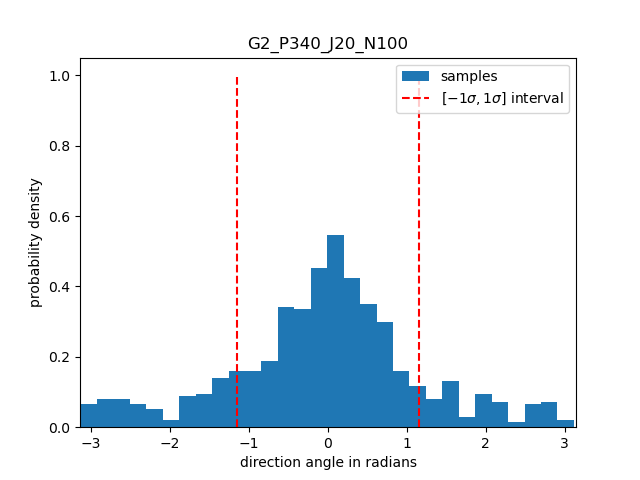
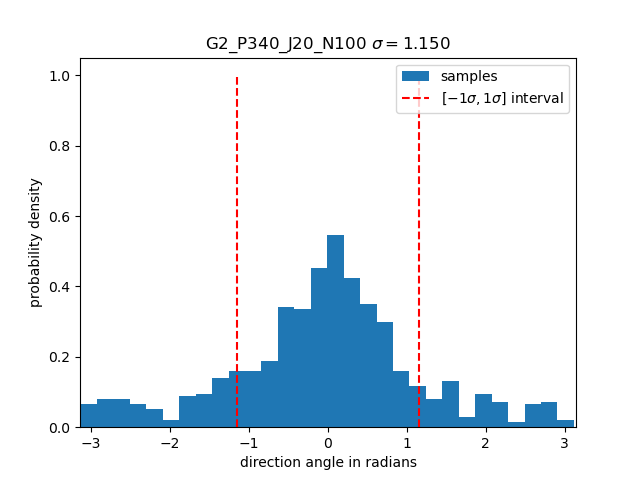
Dump before over time progression

Changed region(s): [[0.3125, 0.0625, 0.7188, 0.125]]

diff --git a/src/plot.py b/src/plot.py
@@ -38,9 +38,7 @@ def arrows():
             # plt.show()
 
 
-def plot(angles, name):
-    # compute the circular standard deviation
-    std = scipy.stats.circstd(angles)
+def plot(angles, name, std):
     width = 1
 
     # plot the results
@@ -52,7 +50,7 @@ def plot(angles, name):
     plt.ylabel('probability density')
 
     plt.legend()
-    plt.title(name)
+    plt.title(name + f' $\sigma = {std:.3f}$')
 
     plt.savefig(hist_folder + f'{name}.png')
     plt.show()
@@ -66,8 +64,8 @@ def plot(angles, name):
     plt.xlabel('direction angle in degrees')
 
     angle = np.deg2rad(67.5)
-    plt.legend(loc='upper left', bbox_to_anchor=(.55 + np.cos(angle)/2, .65 + np.sin(angle)/2))
-    plt.title(name)
+    plt.legend(loc='upper left', bbox_to_anchor=(.55 + np.cos(angle)/2, .63 + np.sin(angle)/2))
+    plt.title(name + f' $\sigma = {std:.3f}$')
 
     plt.savefig(hist_folder + f'{name}_polar.png')
     plt.show()
@@ -97,8 +95,12 @@ def angles():
 
             angles += new_angles
 
+        # compute the circular standard deviation
+        std = scipy.stats.circstd(angles)
+
+        # plot the results
         name = experiment['runs'][0]['img'].split('__', 1)[0]
-        plot(angles, name)
+        plot(angles, name, std)
 
 
 if __name__ == '__main__':
